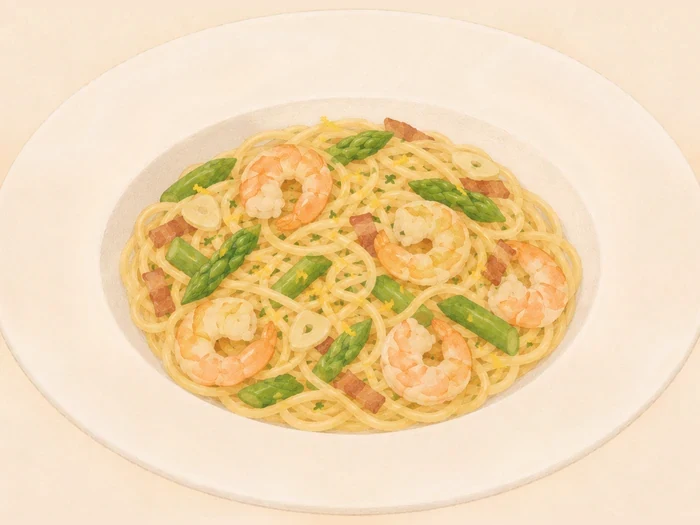
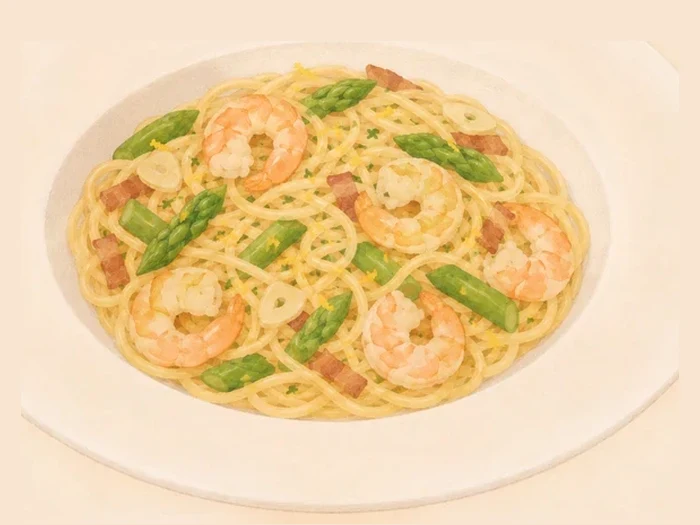
切圖改成框「食物」，不框整個器皿
使用者的觀察：拌麵那張切得漂亮是因為沒把整個碗露出來，重點是麵；
燉飯、義大利麵、馬鈴薯餅那幾張整個盤子都在，食物就顯得小小的。

量得出來：食物佔畫面高度，拌麵 96%、燉飯只有 60%。
原因是 bbox 框的是「所有不是背景的東西」—— 器皿是白的，跟背景很近但還是算數，
所以整個盤子被框進去，食物只好縮小。

新增 FOOD=70 的門檻專門框食物，再往外放 6% 讓器皿露一圈。盤緣被切掉沒關係。
r3 / r14 / r15 / r16 沒有原圖，從現有的 700×525 重切（放大約 1.25 倍，
卡片顯示寬度只有 340px，還在解析度之上）。

r12 73%、r16 73%、r3 77% 仍偏低，那是構圖造成的：
食物本身是寬扁的（三片餅一字排開、麵盤攤平），寬度先撞到邊，
高度就填不滿。要再大只能重生成，不是切圖能解決的。

diff --git a/index.html b/index.html
@@ -808,7 +808,7 @@ ol.steps li::before {
    ══════════════════════════════════════════════ */
 
 /* 素材版本。換過圖就 bump 一次，否則瀏覽器會一直用舊的快取 */
-const ASSETS = '51';
+const ASSETS = '52';
 const asset = p => p + '?v=' + ASSETS;
 
 const $ = (s, el = document) => el.querySelector(s);

diff --git a/assets/crop_dish.py b/assets/crop_dish.py
@@ -21,6 +21,11 @@ SOLID = 18                # 兩邊都會出事，18 是實測的中間值：
                           #    主體縮成小小一團浮在卡片中間（r10、r11 踩過）
                           #  r17 白盤：34→1102×728（切到盤）、18→1300×844（對）、
                           #  8→1424×1068（幾乎整張）。r10 小碟：8→712×476、18→558×334。
+FOOD = 70                 # 框「食物」用的門檻。器皿是白的、跟背景很近，
+                          # 用 SOLID 會把整個盤子框進去，食物就顯得小小一團。
+                          # 重點是菜不是盤子 —— 盤緣被切掉沒關係（r13 拌麵那張
+                          # 就是這樣，食物填掉 96% 的高度；框整盤的燉飯只有 60%）。
+FOOD_PAD = 0.06           # 框完往外放一點，讓器皿露出一圈，不要切得太硬
 BASELINE = 12             # 下緣統一留這麼多 —— 見 render() 的註解
 QLO, QHI = 0.001, 0.999   # ⚠ 邊界用分位數不用 min/max —— 一顆雜點就會把框拉到整張。
 
@@ -106,18 +111,28 @@ def render(flat, box, path):
           f' · {round(os.path.getsize(path)/1024)} KB')
 
 
-def bbox(flat, x0, x1, y0, y1):
+def bbox(flat, x0, x1, y0, y1, thr=None):
     f = flat.load()
+    thr = SOLID if thr is None else thr
     xs, ys = [], []
     for y in range(y0, y1, 2):
         for x in range(x0, x1, 2):
-            if d(f[x, y], TGT) > SOLID:
+            if d(f[x, y], thr and TGT) > thr:
                 xs.append(x); ys.append(y)
     if len(xs) < 200:
         sys.exit(f'這一格幾乎全是背景（{x0},{y0}）–（{x1},{y1}）—— 格線切錯了？')
     xs.sort(); ys.sort()
     q = lambda a, p: a[int(p * (len(a) - 1))]
     return q(xs, QLO), q(xs, QHI), q(ys, QLO), q(ys, QHI)
+
+
+def food_box(flat, x0, x1, y0, y1):
+    """框食物，不框器皿。往外放 FOOD_PAD 讓盤緣露一圈，
+    再夾回這一格的範圍內（不能吃到隔壁格）。"""
+    l, r, t, b = bbox(flat, x0, x1, y0, y1, FOOD)
+    pw, ph = int((r - l) * FOOD_PAD), int((b - t) * FOOD_PAD)
+    return (max(x0, l - pw), min(x1, r + pw),
+            max(y0, t - ph), min(y1, b + ph))
 
 
 def fix_bg(path):
@@ -211,6 +226,6 @@ for cell, rid in zip(want, a.ids):
     y0, y1 = rows[cy] if cy < len(rows) else rows[0]
     band = cols[cy] if cy < len(cols) else cols[0]
     x0, x1 = band[cx] if cx < len(band) else band[0]
-    render(flat, bbox(flat, x0, x1, y0, y1), f'assets/dish/r{rid}.webp')
+    render(flat, food_box(flat, x0, x1, y0, y1), f'assets/dish/r{rid}.webp')
 
 print('\n  ⚠ 別忘了把 index.html 的 const ASSETS 加一號。')
